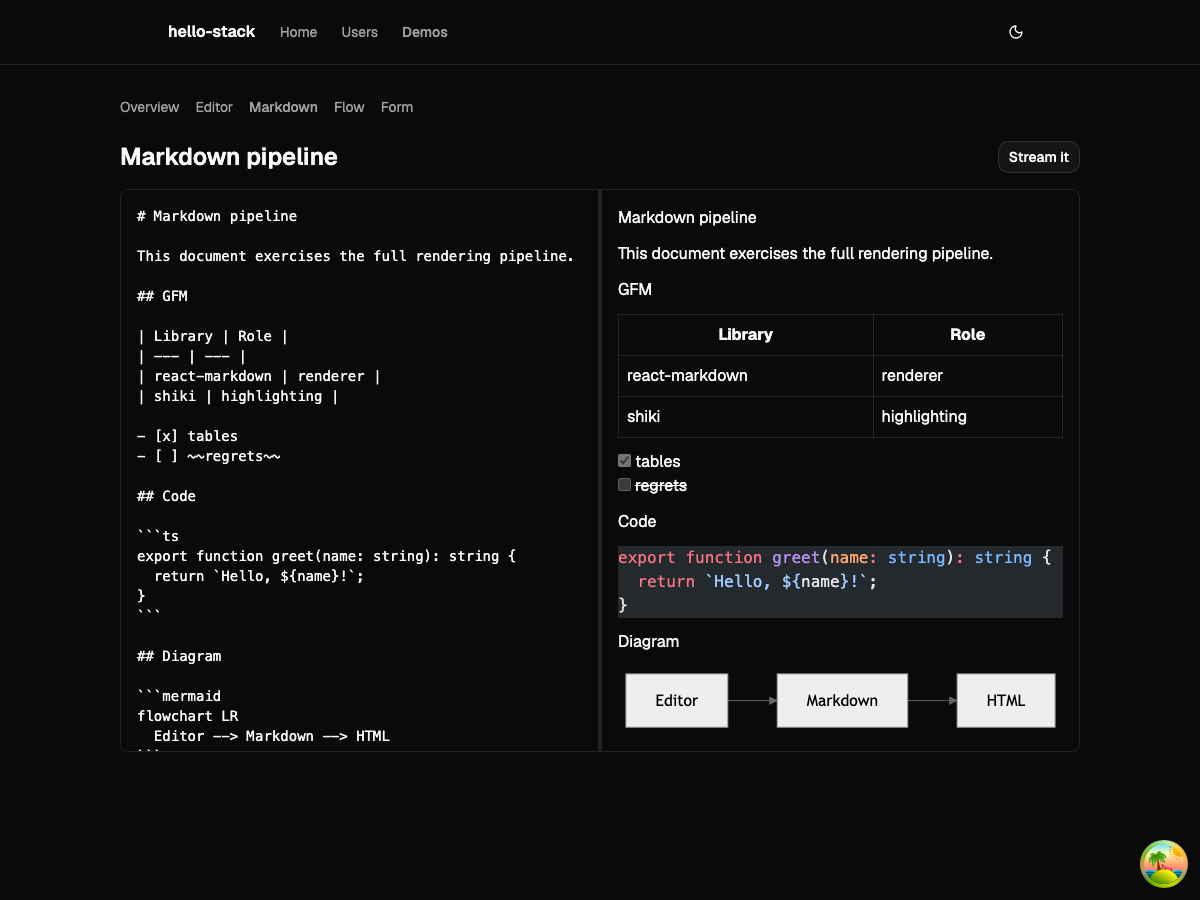
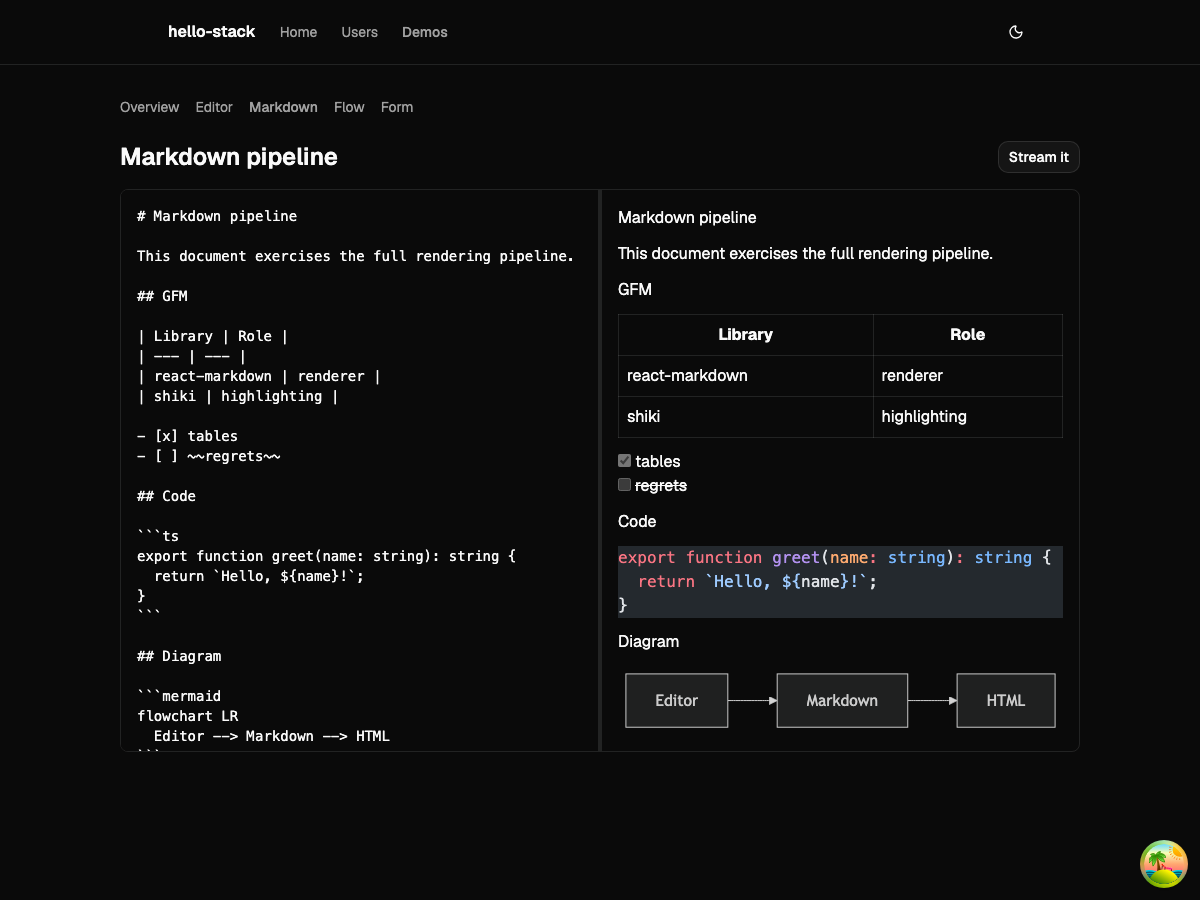
fix: mermaid diagrams follow dark mode via html class observer

Changed region(s): [[0.6475, 0.7467, 0.8942, 0.8089], [0.5242, 0.7467, 0.6167, 0.8089]]

diff --git a/src/components/organisms/MarkdownView.tsx b/src/components/organisms/MarkdownView.tsx
@@ -30,14 +30,41 @@ function ShikiBlock({ code, lang }: { code: string; lang: string }) {
   return <div dangerouslySetInnerHTML={{ __html: html }} />;
 }
 
+// Theme signal that works with and without ThemeProvider: the app's
+// provider and Storybook's toolbar both toggle the dark class on <html>,
+// so the class itself is the one source both worlds share.
+function useIsDark() {
+  const [isDark, setIsDark] = useState(() =>
+    document.documentElement.classList.contains('dark'),
+  );
+
+  useEffect(() => {
+    const observer = new MutationObserver(() => {
+      setIsDark(document.documentElement.classList.contains('dark'));
+    });
+    observer.observe(document.documentElement, {
+      attributes: true,
+      attributeFilter: ['class'],
+    });
+    return () => observer.disconnect();
+  }, []);
+
+  return isDark;
+}
+
 function MermaidBlock({ code }: { code: string }) {
   const [svg, setSvg] = useState<string | null>(null);
+  const isDark = useIsDark();
 
   useEffect(() => {
     let cancelled = false;
     import('mermaid')
       .then(async ({ default: mermaid }) => {
-        mermaid.initialize({ startOnLoad: false, theme: 'neutral' });
+        // Mermaid themes are fixed at render time, so re-render on toggle.
+        mermaid.initialize({
+          startOnLoad: false,
+          theme: isDark ? 'dark' : 'neutral',
+        });
         const { svg: rendered } = await mermaid.render(
           `mmd-${Math.random().toString(36).slice(2)}`,
           code,
@@ -50,7 +77,7 @@ function MermaidBlock({ code }: { code: string }) {
     return () => {
       cancelled = true;
     };
-  }, [code]);
+  }, [code, isDark]);
 
   if (!svg) return <pre className="overflow-x-auto text-sm">{code}</pre>;
   // biome-ignore lint/security/noDangerouslySetInnerHtml: local mermaid output

diff --git a/docs/screenshots/README.md b/docs/screenshots/README.md
@@ -50,7 +50,7 @@ react-hook-form + Zod with a completed submission — the confirmation id was as
 
 ## Dark mode
 
-Captured with the browser's color scheme set to dark and no toggle click — the `system` theme default resolving on its own. shadcn's `.dark` CSS variables, shiki's dual-theme output, and xyflow's `colorMode="system"` all follow; mermaid keeps its fixed neutral theme (initialized once, doesn't track the toggle).
+Captured with the browser's color scheme set to dark and no toggle click — the `system` theme default resolving on its own. shadcn's `.dark` CSS variables, shiki's dual-theme output, xyflow's `colorMode="system"`, and mermaid (re-rendered with its dark theme via a class observer on `<html>`) all follow.
 
 | | |
 | --- | --- |
